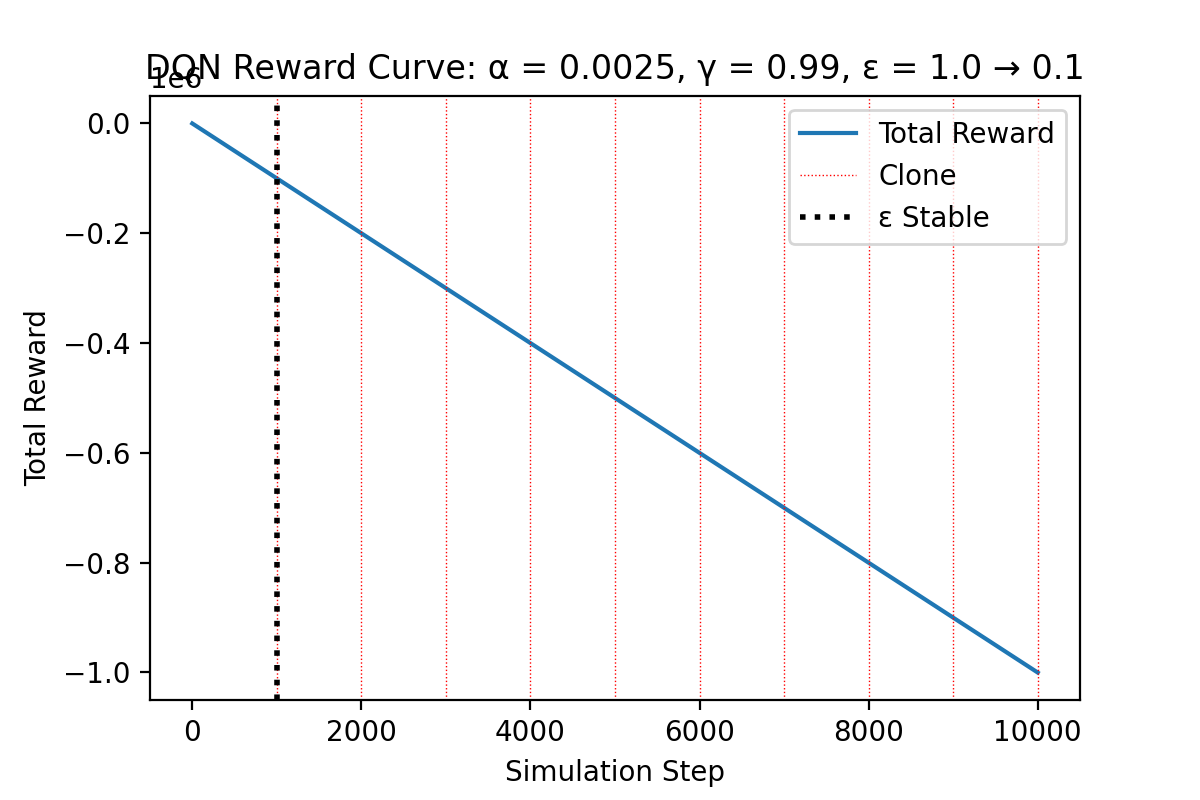
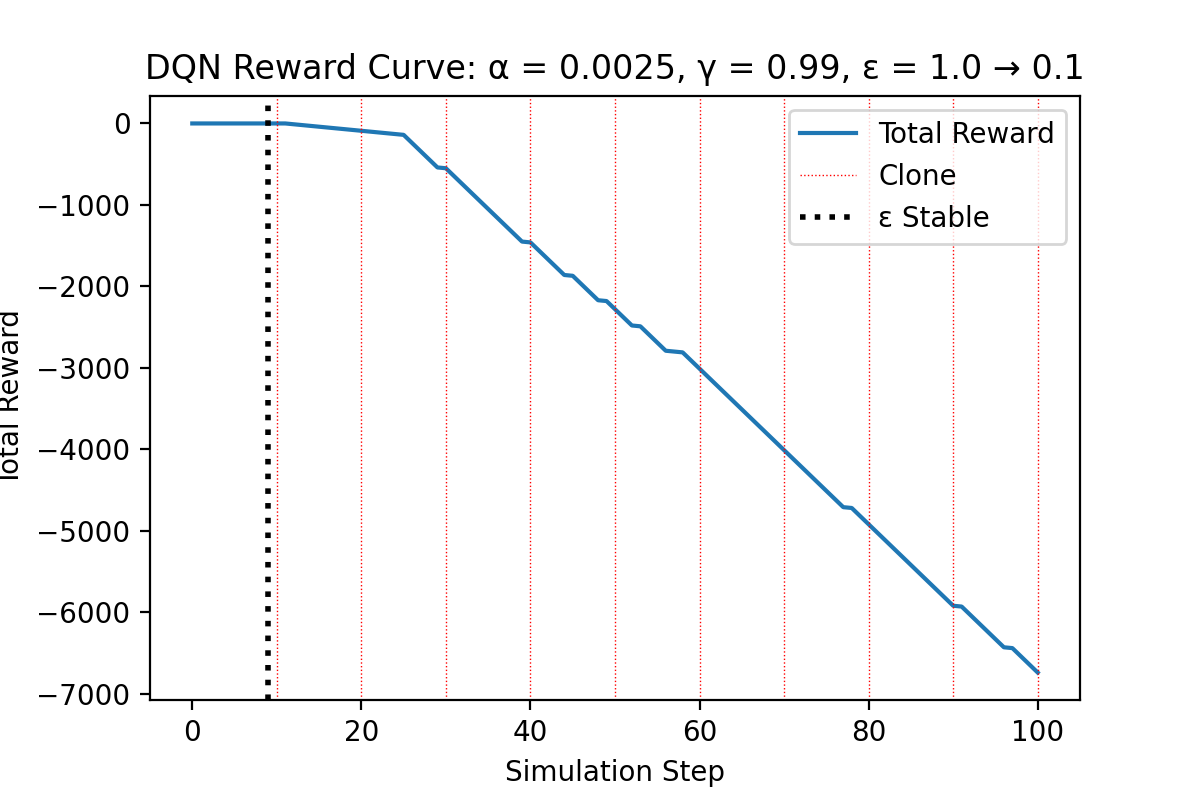
Optimized vortex panel solver

diff --git a/Vortex_Panel_Parallel_Solver.py b/Vortex_Panel_Parallel_Solver.py
@@ -6,6 +6,7 @@ Created on Mon Sep 28 14:23:01 2020
 from scipy.signal import find_peaks 
 import numpy as np
 import matplotlib.pyplot as plt
+from joblib import Parallel, delayed
 
 # Vortex panel method solver and environment stepper for a 1m chord length airfoil
 # @param max_num_steps - the max number of times an airfoil can be changed by an agent
@@ -96,96 +97,86 @@ class Vortex_Panel_Solver():
         return (product / product_norm)
     
     # Solves the integral required to populate linear system to solve for gamma for each panel (positive circulation into page)
-    # @param pj - jth panel point written in 3D coords np.array([x, y, z])
-    # @param pjp1 - j+1th panel point written in 3D coords np.array([x, y, z])
-    # @param cp - control point written in 3D coords np.array([x, y, z])
-    # @param cp_normal - the normal vector of the control point in form np.array([x, y, z])
-    # @return integral in form vn_prime_j, vn_prime_jp1, vx_prime_jp1, vy_prime_j, vy_prime_jp1
+    # @param pj - jth panel point written in 3D coords np.array([[x],[y],[z]])
+    # @param pjp1 - j+1th panel point written in 3D coords np.array([[x],[y],[z]])
+    # @param cp - control point written in 3D coords np.array([[x],[y],[z]])
+    # @param cp_normal - the normal vector of the control point in form np.array([[nx],[ny],[0]])
+    # @return integral in form vn_prime_j, vn_prime_jp1,
     def solve_integral(self, pj, pjp1, cp, cp_normal):
         # Panel parameters
         panel_length = np.linalg.norm(pjp1 - pj)
         
         # Parameters used for integration
-        s = np.linspace(pj, pjp1, self.precision)
-        s_norm = np.linspace(0.0, panel_length, self.precision)
+        s = np.array([np.linspace(pj[0],pjp1[0],self.precision).reshape(self.precision), 
+                      np.linspace(pj[1],pjp1[1],self.precision).reshape(self.precision), 
+                      np.linspace(0,0,self.precision)])
+        s_norm = np.linspace(0,panel_length,self.precision).reshape(self.precision)
         
         # Calculate the radius to control point and its square norm
         r = cp - s
-        r_norm_sq = np.einsum('ij,ij->i', r, r)
+        r_norm_sq = np.einsum('ij,ij->j', r, r).reshape(1,self.precision)
         
         # Setup integrals
         den = 2 * np.pi * r_norm_sq
         num_j = np.linspace(1,0,self.precision)
         num_jp1 = np.linspace(0,1,self.precision)
-        minus_rx = -1.0 * r[:,0]
-        ry = r[:,1]
+        _rx = -1.0 * r[0].reshape(1,self.precision)
+        ry = r[1].reshape(1,self.precision)
         
         # solve integrals
-        vx_prime_j = np.trapz(ry * num_j / den, x=s_norm)
-        vx_prime_jp1 = np.trapz(ry * num_jp1 / den, x=s_norm)
-        vy_prime_j = np.trapz(minus_rx * num_j / den, x=s_norm)
-        vy_prime_jp1 = np.trapz(minus_rx * num_jp1 / den, x=s_norm)
+        vx_prime_j = np.trapz(ry * num_j / den, x=s_norm).item()
+        vx_prime_jp1 = np.trapz(ry * num_jp1 / den, x=s_norm).item()
+        vy_prime_j = np.trapz(_rx * num_j / den, x=s_norm).item()
+        vy_prime_jp1 = np.trapz(_rx * num_jp1 / den, x=s_norm).item()
 
         #format normal vector
-        nx = cp_normal[0]
-        ny = cp_normal[1]
+        nx = cp_normal[0][0]
+        ny = cp_normal[1][0]
         
         # Format outpout
         vn_prime_j = nx * vx_prime_j + ny * vy_prime_j
         vn_prime_jp1 = nx * vx_prime_jp1 + ny * vy_prime_jp1
         
         # Combine results
-        return vn_prime_j, vn_prime_jp1, vx_prime_j, vx_prime_jp1, vy_prime_j, vy_prime_jp1
+        return vn_prime_j, vn_prime_jp1
     
-    #Solves for the A matrices
-    # @return the A matrix that solves the normal vel mag, the A matrix that solves the vx vel mag, and the A matrix that solves the vy vel mag
+    #Solves for the A matrix
+    # @return the A matrix
     def get_A(self):
         
         # Init the A matrix
         A = np.zeros((2 * self.n_panels_per_surface + 1, 2 * self.n_panels_per_surface + 1))
-        A_vx = np.zeros((2 * self.n_panels_per_surface + 1, 2 * self.n_panels_per_surface + 1))
-        A_vy = np.zeros((2 * self.n_panels_per_surface + 1, 2 * self.n_panels_per_surface + 1))
-        
-        # Get the panel vertices
-        pj_set = np.array([self.surface_x[0,:][:-1], 
-                           self.surface_y[0,:][:-1], 
-                           np.zeros(2 * self.n_panels_per_surface)])
-        pjp1_set = np.array([np.roll(self.surface_x[0,:],-1)[:-1], 
-                             np.roll(self.surface_y[0,:],-1)[:-1], 
-                             np.zeros(2 * self.n_panels_per_surface)])
-        
-        # Get the control points
-        control_point_set = (pj_set + pjp1_set) / 2
         
         # Step through all panels
         for curr_control_point in range(2 * self.n_panels_per_surface):
             
-            # Get the control point and its normal on the current panel
-            control_point = control_point_set[:,curr_control_point]
-            control_point_normal = self.surface_normal[:,curr_control_point]
+            # Get the control point on the current panel (spatial average of panel boudning points)
+            control_point_x = (self.surface_x[0][curr_control_point] + self.surface_x[0][curr_control_point+1])/2
+            control_point_y = (self.surface_y[0][curr_control_point] + self.surface_y[0][curr_control_point+1])/2
+            control_point = np.array([[control_point_x],[control_point_y],[0.0]])
+            
+            # Gather the normal vector
+            control_point_normal = self.surface_normal[:,curr_control_point].reshape(3,1)
             
             # Step through all inducing panels
             for curr_inducing_panel in range(2 * self.n_panels_per_surface):
                 
+                # Get the bounding points of the inducing panel
+                pj = np.array([[self.surface_x[0][curr_inducing_panel]], [self.surface_y[0][curr_inducing_panel]], [0.0]])
+                pjp1 = np.array([[self.surface_x[0][curr_inducing_panel+1]], [self.surface_y[0][curr_inducing_panel+1]], [0.0]])
+                
                 # Solve the integral
-                vn_prime_j, vn_prime_jp1, vx_prime_j, vx_prime_jp1, vy_prime_j, vy_prime_jp1 = self.solve_integral(pj_set[:,curr_inducing_panel], 
-                                                               pjp1_set[:,curr_inducing_panel], 
-                                                               control_point, 
-                                                               control_point_normal)
+                vn_prime_j, vn_prime_jp1 = self.solve_integral(pj, pjp1, control_point, control_point_normal)
                 
                 # Format and update A
                 A[curr_control_point][curr_inducing_panel] += vn_prime_j
                 A[curr_control_point][curr_inducing_panel + 1] += vn_prime_jp1
-                A_vx[curr_control_point][curr_inducing_panel] += vx_prime_j
-                A_vx[curr_control_point][curr_inducing_panel + 1] += vx_prime_jp1
-                A_vy[curr_control_point][curr_inducing_panel] += vy_prime_j
-                A_vy[curr_control_point][curr_inducing_panel + 1] += vy_prime_jp1
                 
         # Apply the kutta condition
         A[2 * self.n_panels_per_surface][0] = 1.0
         A[2 * self.n_panels_per_surface][2 * self.n_panels_per_surface] = 1.0
         
-        return A, A_vx[:-1,:], A_vy[:-1,:]
+        return A
             
         
     # Solves for the B matrix 
@@ -201,27 +192,98 @@ class Vortex_Panel_Solver():
         
         return B
     
+    # Solves for the circulation strength at each panel vertex
+    # @param V_inf - the free stream velocity
+    # @return the circulation strength at each panel vertex
+    def solve_gamma(self, v_inf):
+        A = self.get_A()
+        B = self.get_B(v_inf)
+        return np.linalg.solve(A, -1.0 * B)
+    
+    # Solves for the local tangential velcoity induced by panel j at control point cp
+    # @param pj - jth panel point written in 3D coords np.array([[x],[y],[z]])
+    # @param pjp1 - j+1th panel point written in 3D coords np.array([[x],[y],[z]])
+    # @param cp - control point written in 3D coords np.array([[x],[y],[z]])
+    # @param gamma_j - the circulation at point pj
+    # @param gamma_jp1 - the circulation at point pjp1
+    # @return velocity at cp in form v_induced
+    def solve_velocity(self, pj, pjp1, cp, gamma_j, gamma_jp1):
+        # Panel parameters
+        panel_length = np.linalg.norm(pjp1 - pj)
+        
+        # Parameters used for integration
+        s = np.array([np.linspace(pj[0],pjp1[0],self.precision).reshape(self.precision), 
+                      np.linspace(pj[1],pjp1[1],self.precision).reshape(self.precision), 
+                      np.linspace(0,0,self.precision)])
+        s_norm = np.linspace(0,panel_length,self.precision).reshape(self.precision)
+        
+        # Calculate the radius to control point and its square norm
+        r = cp - s
+        r_norm_sq = np.einsum('ij,ij->j', r, r).reshape(1,self.precision)
+        
+        # Setup integrals
+        den = 2 * np.pi * r_norm_sq
+        num_j = np.linspace(1,0,self.precision)
+        num_jp1 = np.linspace(0,1,self.precision)
+        _rx = -1.0 * r[0].reshape(1,self.precision)
+        ry = r[1].reshape(1,self.precision)
+        
+        # solve integrals
+        vx_prime_j = np.trapz(ry * num_j / den, x=s_norm).item()
+        vx_prime_jp1 = np.trapz(ry * num_jp1 / den, x=s_norm).item()
+        vy_prime_j = np.trapz(_rx * num_j / den, x=s_norm).item()
+        vy_prime_jp1 = np.trapz(_rx * num_jp1 / den, x=s_norm).item()
+        
+        # Format outpout
+        vx = vx_prime_j * gamma_j + vx_prime_jp1 * gamma_jp1
+        vy = vy_prime_j * gamma_j + vy_prime_jp1 * gamma_jp1
+        vz = 0.0
+
+        # Combine results
+        return np.array([vx, vy, vz])
+    
     # Gets the velocity induced by the freestream and the vortex panels at each control point
     # @param V_inf - freestream velocity in form np.array([[Vx],[Vy],[0]])
     # @return coefficient of pressure at each control point
     def solve_cp(self, v_inf):
-        # Get the magnitude of the tangential vel at each control point
-        A, A_vx, A_vy = self.get_A()
-        B = self.get_B(v_inf)
-        gamma = np.linalg.solve(A, -1.0 * B)
-        vx = ((np.matmul(A_vx, gamma)) + v_inf[0,0]).reshape(2*self.n_panels_per_surface)
-        vy = ((np.matmul(A_vy, gamma)) + v_inf[1,0]).reshape(2*self.n_panels_per_surface)
-        v_mag = np.linalg.norm(np.array([vx,vy]), axis=0)
+        gamma = self.solve_gamma(v_inf)
+        
+        # Init the induced velocity vector
+        v_induced = np.zeros((2 * self.n_panels_per_surface, 3))
+        
+        # Step through all panels
+        for curr_control_point in range(2 * self.n_panels_per_surface):
+            
+            # Get the control point on the current panel (spatial average of boudning points)
+            control_point_x = (self.surface_x[0][curr_control_point] + self.surface_x[0][curr_control_point+1])/2
+            control_point_y = (self.surface_y[0][curr_control_point] + self.surface_y[0][curr_control_point+1])/2
+            control_point = np.array([[control_point_x],[control_point_y],[0.0]])
+            
+            # Step through all inducing panels
+            for curr_inducing_panel in range(2 * self.n_panels_per_surface):
+                
+                # Get the bounding points of the inducing panel
+                pj = np.array([[self.surface_x[0][curr_inducing_panel]], [self.surface_y[0][curr_inducing_panel]], [0.0]])
+                pjp1 = np.array([[self.surface_x[0][curr_inducing_panel+1]], [self.surface_y[0][curr_inducing_panel+1]], [0.0]])
+                gamma_j = gamma[curr_inducing_panel][0]
+                gamma_jp1 = gamma[curr_inducing_panel + 1][0]
+                
+                # Solve the integral
+                v_induced[curr_control_point] += self.solve_velocity(pj, pjp1, control_point, gamma_j, gamma_jp1)
+        
+        # Calculate tanjential velocity at every control point
+        v = v_induced[:] + v_inf.reshape(3)
+        v_mag = np.linalg.norm(v,axis=1).reshape(self.n_panels_per_surface * 2, 1)
     
         # Bernoulli's equation to get Cp
         v_inf_mag = np.linalg.norm(v_inf)
         cp = 1 - ((v_mag ** 2) / (v_inf_mag ** 2))
         return cp
-
-    # Gets the lift, pressure drag, and moment coefficients based on the pressure distribution
-    # @param v_inf - freestream velocity in form np.array([[Vx],[Vy],[0]])
-    # @return the lift, pressure drag, and moment coefficients coefficient
-    def solve_cl_cdp_cm4c(self, v_inf):
+    
+    # Gets the axial, normal, and moment coefficients based on the pressure distribution
+    # @param V_inf - freestream velocity in form np.array([[Vx],[Vy],[0]])
+    # @return the axial, normal, and moment coefficients
+    def solve_ca_cn_cm4c(self, v_inf):
         # Get and split cp into lower and upper
         cp = self.solve_cp(v_inf)
         cp_upper = cp[0:self.n_panels_per_surface][::-1].reshape(self.n_panels_per_surface)
@@ -255,7 +317,13 @@ class Vortex_Panel_Solver():
         part_2 = np.trapz((cp_upper*slope_upper*y_coords_upper) - (cp_lower*slope_lower*y_coords_lower), x=x_coords)
         cm4c = part_1 + part_2
         
-        # solve for alpha
+        return ca, cn, cm4c
+
+    # Gets the lift, pressure drag, and moment coefficients based on the pressure distribution
+    # @param v_inf - freestream velocity in form np.array([[Vx],[Vy],[0]])
+    # @return the lift, pressure drag, and moment coefficients coefficient
+    def solve_cl_cdp_cm4c(self, v_inf):
+        ca, cn, cm4c = self.solve_ca_cn_cm4c(v_inf)
         alpha = np.arctan(v_inf[1][0] / v_inf[0][0])
         
         # Get lift and drag coeffs

diff --git a/Main.py b/Main.py
@@ -28,7 +28,7 @@ def run_set(curr_set, n_sets, n_episodes, env, agent):
             a1 = agent.get_action(s1)
             
             # Execute action a1 in emulator and observer reward r and next state s2
-            vis_foil = (n % 1000 == 0)
+            vis_foil = (n % 100 == 0)
             n += 1 
             (s2, r, done) = env.step(a1, vis_foil=vis_foil, n=n-1)
             
@@ -63,7 +63,7 @@ if __name__ == '__main__':
     n_panel_per_surface = 10
     n_sets = 1
     n_episodes = 1
-    n_steps = 11000
+    n_steps = 1100
     
     # Environment
     env = vps.Vortex_Panel_Solver(n_steps, n_panel_per_surface, v_inf_test_points, alpha_test_points,
@@ -73,12 +73,12 @@ if __name__ == '__main__':
     
     # Agent parameters
     max_data_set_size = 1000000
-    start_data_set_size = 1000
+    start_data_set_size = 100
     sequence_size = 1
     minibatch_size = 32
     num_hidden_layers = 5
     num_neurons_in_layer = 64
-    clone_interval = 1000
+    clone_interval = 100
     alpha = 0.0025
     gamma = 0.99
     epsilon_start = 1.00
